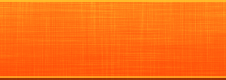
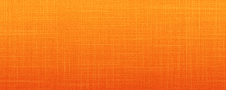
theme updates
theme updates

diff --git a/system/cms/themes/pyrocms/css/main/style.css b/system/cms/themes/pyrocms/css/main/style.css
@@ -1,4 +1,4 @@
-background: #993505 url("../../img/nav-bg@1x.png") repeat-x;/*!
+background: #f26a07 url("../../img/nav-bg@1x.png") repeat-x;/*!
  * Bootstrap v2.2.2
  *
  * Copyright 2012 Twitter, Inc
@@ -6000,10 +6000,20 @@ input[type="submit"].btn.btn-mini {
   *z-index: 2;
 }
 .navbar-inner {
-  min-height: 40px;
+  min-height: 45px;
   padding-left: 20px;
   padding-right: 20px;
-  background: #993505 url("../../img/nav-bg@1x.png") repeat-x;
+  background-color: #f67213;
+  background-image: -moz-linear-gradient(top, #f8781b, #f26a07);
+  background-image: -webkit-gradient(linear, 0 0, 0 100%, from(#f8781b), to(#f26a07));
+  background-image: -webkit-linear-gradient(top, #f8781b, #f26a07);
+  background-image: -o-linear-gradient(top, #f8781b, #f26a07);
+  background-image: linear-gradient(to bottom, #f8781b, #f26a07);
+  background-repeat: repeat-x;
+  filter: progid:DXImageTransform.Microsoft.gradient(startColorstr='#fff8781b', endColorstr='#fff26a07', GradientType=0);
+  background: #f26a07 url("../../img/nav-bg@1x.png") repeat-x;
+  border-top: 1px solid #ffd253;
+  border-bottom: 4px solid #994412;
   -webkit-border-radius: 4px;
   -moz-border-radius: 4px;
   border-radius: 4px;
@@ -6040,19 +6050,19 @@ input[type="submit"].btn.btn-mini {
 .navbar .brand {
   float: left;
   display: block;
-  padding: 10px 20px 10px;
+  padding: 12.5px 20px 12.5px;
   margin-left: -20px;
   font-size: 20px;
   font-weight: 200;
   color: #ffffff;
-  text-shadow: 0 1px 0 #b23d06;
+  text-shadow: 0 1px 0 #f8781b;
 }
 .navbar .brand:hover {
   text-decoration: none;
 }
 .navbar-text {
   margin-bottom: 0;
-  line-height: 40px;
+  line-height: 45px;
 }
 .navbar-link {
   color: #ffffff;
@@ -6061,14 +6071,14 @@ input[type="submit"].btn.btn-mini {
   color: #ffffff;
 }
 .navbar .divider-vertical {
-  height: 40px;
+  height: 45px;
   margin: 0 9px;
-  border-left: 1px solid #993505;
-  border-right: 1px solid #b23d06;
+  border-left: 1px solid #f26a07;
+  border-right: 1px solid #f8781b;
 }
 .navbar .btn,
 .navbar .btn-group {
-  margin-top: 5px;
+  margin-top: 7.5px;
 }
 .navbar .btn-group .btn,
 .navbar .input-prepend .btn,
@@ -6101,7 +6111,7 @@ input[type="submit"].btn.btn-mini {
 .navbar-form select,
 .navbar-form .radio,
 .navbar-form .checkbox {
-  margin-top: 5px;
+  margin-top: 7.5px;
 }
 .navbar-form input,
 .navbar-form select,
@@ -6126,7 +6136,7 @@ input[type="submit"].btn.btn-mini {
 .navbar-search {
   position: relative;
   float: left;
-  margin-top: 5px;
+  margin-top: 7.5px;
   margin-bottom: 0;
 }
 .navbar-search .search-query {
@@ -6210,10 +6220,10 @@ input[type="submit"].btn.btn-mini {
 }
 .navbar .nav > li > a {
   float: none;
-  padding: 10px 15px 10px;
+  padding: 12.5px 15px 12.5px;
   color: #ffffff;
   text-decoration: none;
-  text-shadow: 0 1px 1px #b23d06;
+  text-shadow: 0 1px 1px #f8781b;
 }
 .navbar .nav .dropdown-toggle .caret {
   margin-top: 8px;
@@ -6229,7 +6239,7 @@ input[type="submit"].btn.btn-mini {
 .navbar .nav > .active > a:focus {
   color: #ffffff;
   text-decoration: none;
-  background-color: rgba(0, 0, 0, 0.2);
+  background-color: #d95f07;
   -webkit-box-shadow: inset 0 3px 8px rgba(0, 0, 0, 0.125);
   -moz-box-shadow: inset 0 3px 8px rgba(0, 0, 0, 0.125);
   box-shadow: inset 0 3px 8px rgba(0, 0, 0, 0.125);
@@ -6242,17 +6252,17 @@ input[type="submit"].btn.btn-mini {
   margin-right: 5px;
   color: #ffffff;
   text-shadow: 0 -1px 0 rgba(0, 0, 0, 0.25);
-  background-color: #8f3105;
-  background-image: -moz-linear-gradient(top, #993505, #812c04);
-  background-image: -webkit-gradient(linear, 0 0, 0 100%, from(#993505), to(#812c04));
-  background-image: -webkit-linear-gradient(top, #993505, #812c04);
-  background-image: -o-linear-gradient(top, #993505, #812c04);
-  background-image: linear-gradient(to bottom, #993505, #812c04);
+  background-color: #e86607;
+  background-image: -moz-linear-gradient(top, #f26a07, #d95f07);
+  background-image: -webkit-gradient(linear, 0 0, 0 100%, from(#f26a07), to(#d95f07));
+  background-image: -webkit-linear-gradient(top, #f26a07, #d95f07);
+  background-image: -o-linear-gradient(top, #f26a07, #d95f07);
+  background-image: linear-gradient(to bottom, #f26a07, #d95f07);
   background-repeat: repeat-x;
-  filter: progid:DXImageTransform.Microsoft.gradient(startColorstr='#ff993505', endColorstr='#ff812c04', GradientType=0);
-  border-color: #812c04 #812c04 #371302;
+  filter: progid:DXImageTransform.Microsoft.gradient(startColorstr='#fff26a07', endColorstr='#ffd95f07', GradientType=0);
+  border-color: #d95f07 #d95f07 #8f3f04;
   border-color: rgba(0, 0, 0, 0.1) rgba(0, 0, 0, 0.1) rgba(0, 0, 0, 0.25);
-  *background-color: #812c04;
+  *background-color: #d95f07;
   /* Darken IE7 buttons by default so they stand out more given they won't have borders */
 
   filter: progid:DXImageTransform.Microsoft.gradient(enabled = false);
@@ -6266,12 +6276,12 @@ input[type="submit"].btn.btn-mini {
 .navbar .btn-navbar.disabled,
 .navbar .btn-navbar[disabled] {
   color: #ffffff;
-  background-color: #812c04;
-  *background-color: #682404;
+  background-color: #d95f07;
+  *background-color: #c15406;
 }
 .navbar .btn-navbar:active,
 .navbar .btn-navbar.active {
-  background-color: #4f1b03 \9;
+  background-color: #a84a05 \9;
 }
 .navbar .btn-navbar:hover,
 .navbar .btn-navbar:active,
@@ -6279,12 +6289,12 @@ input[type="submit"].btn.btn-mini {
 .navbar .btn-navbar.disabled,
 .navbar .btn-navbar[disabled] {
   color: #ffffff;
-  background-color: #812c04;
-  *background-color: #682404;
+  background-color: #d95f07;
+  *background-color: #c15406;
 }
 .navbar .btn-navbar:active,
 .navbar .btn-navbar.active {
-  background-color: #4f1b03 \9;
+  background-color: #a84a05 \9;
 }
 .navbar .btn-navbar .icon-bar {
   display: block;
@@ -6338,7 +6348,7 @@ input[type="submit"].btn.btn-mini {
 .navbar .nav li.dropdown.open > .dropdown-toggle,
 .navbar .nav li.dropdown.active > .dropdown-toggle,
 .navbar .nav li.dropdown.open.active > .dropdown-toggle {
-  background-color: rgba(0, 0, 0, 0.2);
+  background-color: #d95f07;
   color: #ffffff;
 }
 .navbar .nav li.dropdown > .dropdown-toggle .caret {
@@ -9695,8 +9705,8 @@ span.cke_skin_kama {
 @media only screen and (-webkit-min-device-pixel-ratio: 1.5), only screen and (min-device-pixel-ratio: 1.5) {
   /* Styles */
   .navbar-inner {
-    background: #993505 url("../../img/nav-bg@2x.png") repeat-x;
-    background-size: 113px 40px;
+    background: #f26a07 url("../../img/nav-bg@2x.png") repeat-x;
+    background-size: 113px 60px;
   }
 }
 /* iPad Retina Displays (Tip: Best used only for image replacement)

diff --git a/system/cms/themes/pyrocms/css/less/variables.less b/system/cms/themes/pyrocms/css/less/variables.less
@@ -34,6 +34,9 @@
 // PyroCMS colors
 // -------------------------
 @pyroOrange:            #ff9a00;
+@pyroHighlight:					#ffd253;
+@pyroShadow:						#994412;
+//@pyroOrange:            #F8781B;
 
 // Scaffolding
 // -------------------------
@@ -189,20 +192,22 @@
 @navbarCollapseWidth:             979px;
 @navbarCollapseDesktopWidth:      @navbarCollapseWidth + 1;
 
-@navbarHeight:                    40px;
+@navbarHeight:                    45px;
 @navBackground1x:									"../../img/nav-bg@1x.png";
 @navBackground2x:									"../../img/nav-bg@2x.png";
-@navbarBackgroundHighlight:       #b23d06;
+@navbarBackgroundHighlight:       #F8781B;
 @navbarBackground:                darken(@navbarBackgroundHighlight, 5%);
 @navbarBorder:                    darken(@navbarBackground, 12%);
+@navbarTopBorder:									@pyroHighlight;
+@navbarBottomBorder:							@pyroShadow;
 
 @navbarText:                      @white;
 @navbarLinkColor:                 @white;
 @navbarLinkColorHover:            @white;
 @navbarLinkColorActive:           @white;
 @navbarLinkBackgroundHover:       transparent;
-@navbarLinkBackgroundActive:			rgba(0,0,0,.2);
-//@navbarLinkBackgroundActive:      darken(@navbarBackground, 5%);
+//@navbarLinkBackgroundActive:			rgba(0,0,0,.2);
+@navbarLinkBackgroundActive:      darken(@navbarBackground, 5%);
 
 @navbarBrandColor:                @navbarLinkColor;
 

diff --git a/system/cms/themes/pyrocms/css/main/responsive.css b/system/cms/themes/pyrocms/css/main/responsive.css
@@ -942,7 +942,7 @@
   }
   .nav-collapse .nav > li > a:hover,
   .nav-collapse .dropdown-menu a:hover {
-    background-color: #993505;
+    background-color: #f26a07;
   }
   .navbar-inverse .nav-collapse .nav > li > a,
   .navbar-inverse .nav-collapse .dropdown-menu a {
@@ -993,8 +993,8 @@
     float: none;
     padding: 10px 15px;
     margin: 10px 0;
-    border-top: 1px solid #993505;
-    border-bottom: 1px solid #993505;
+    border-top: 1px solid #f26a07;
+    border-bottom: 1px solid #f26a07;
     -webkit-box-shadow: inset 0 1px 0 rgba(255,255,255,.1), 0 1px 0 rgba(255,255,255,.1);
     -moz-box-shadow: inset 0 1px 0 rgba(255,255,255,.1), 0 1px 0 rgba(255,255,255,.1);
     box-shadow: inset 0 1px 0 rgba(255,255,255,.1), 0 1px 0 rgba(255,255,255,.1);

diff --git a/system/cms/themes/pyrocms/css/less/navbar.less b/system/cms/themes/pyrocms/css/less/navbar.less
@@ -23,9 +23,10 @@
   min-height: @navbarHeight;
   padding-left:  20px;
   padding-right: 20px;
-  //#gradient > .vertical(@navbarBackgroundHighlight, @navbarBackground);
+  #gradient > .vertical(@navbarBackgroundHighlight, @navbarBackground);
   background: @navbarBackground url(@navBackground1x) repeat-x;
-  //border: 1px solid @navbarBorder;
+  border-top: 1px solid @navbarTopBorder;
+  border-bottom: 4px solid @navbarBottomBorder;
   .border-radius(@baseBorderRadius);
   .box-shadow(0 1px 4px rgba(0,0,0,.065));
 

diff --git a/system/cms/themes/pyrocms/css/less/queries.less b/system/cms/themes/pyrocms/css/less/queries.less
@@ -107,7 +107,7 @@ only screen and (min-device-pixel-ratio : 1.5) {
 /* Styles */
 .navbar-inner {
 	background: @navbarBackground url(@navBackground2x) repeat-x;
-	background-size: 113px 40px;
+	background-size: 113px 60px;
 }
 
 }
